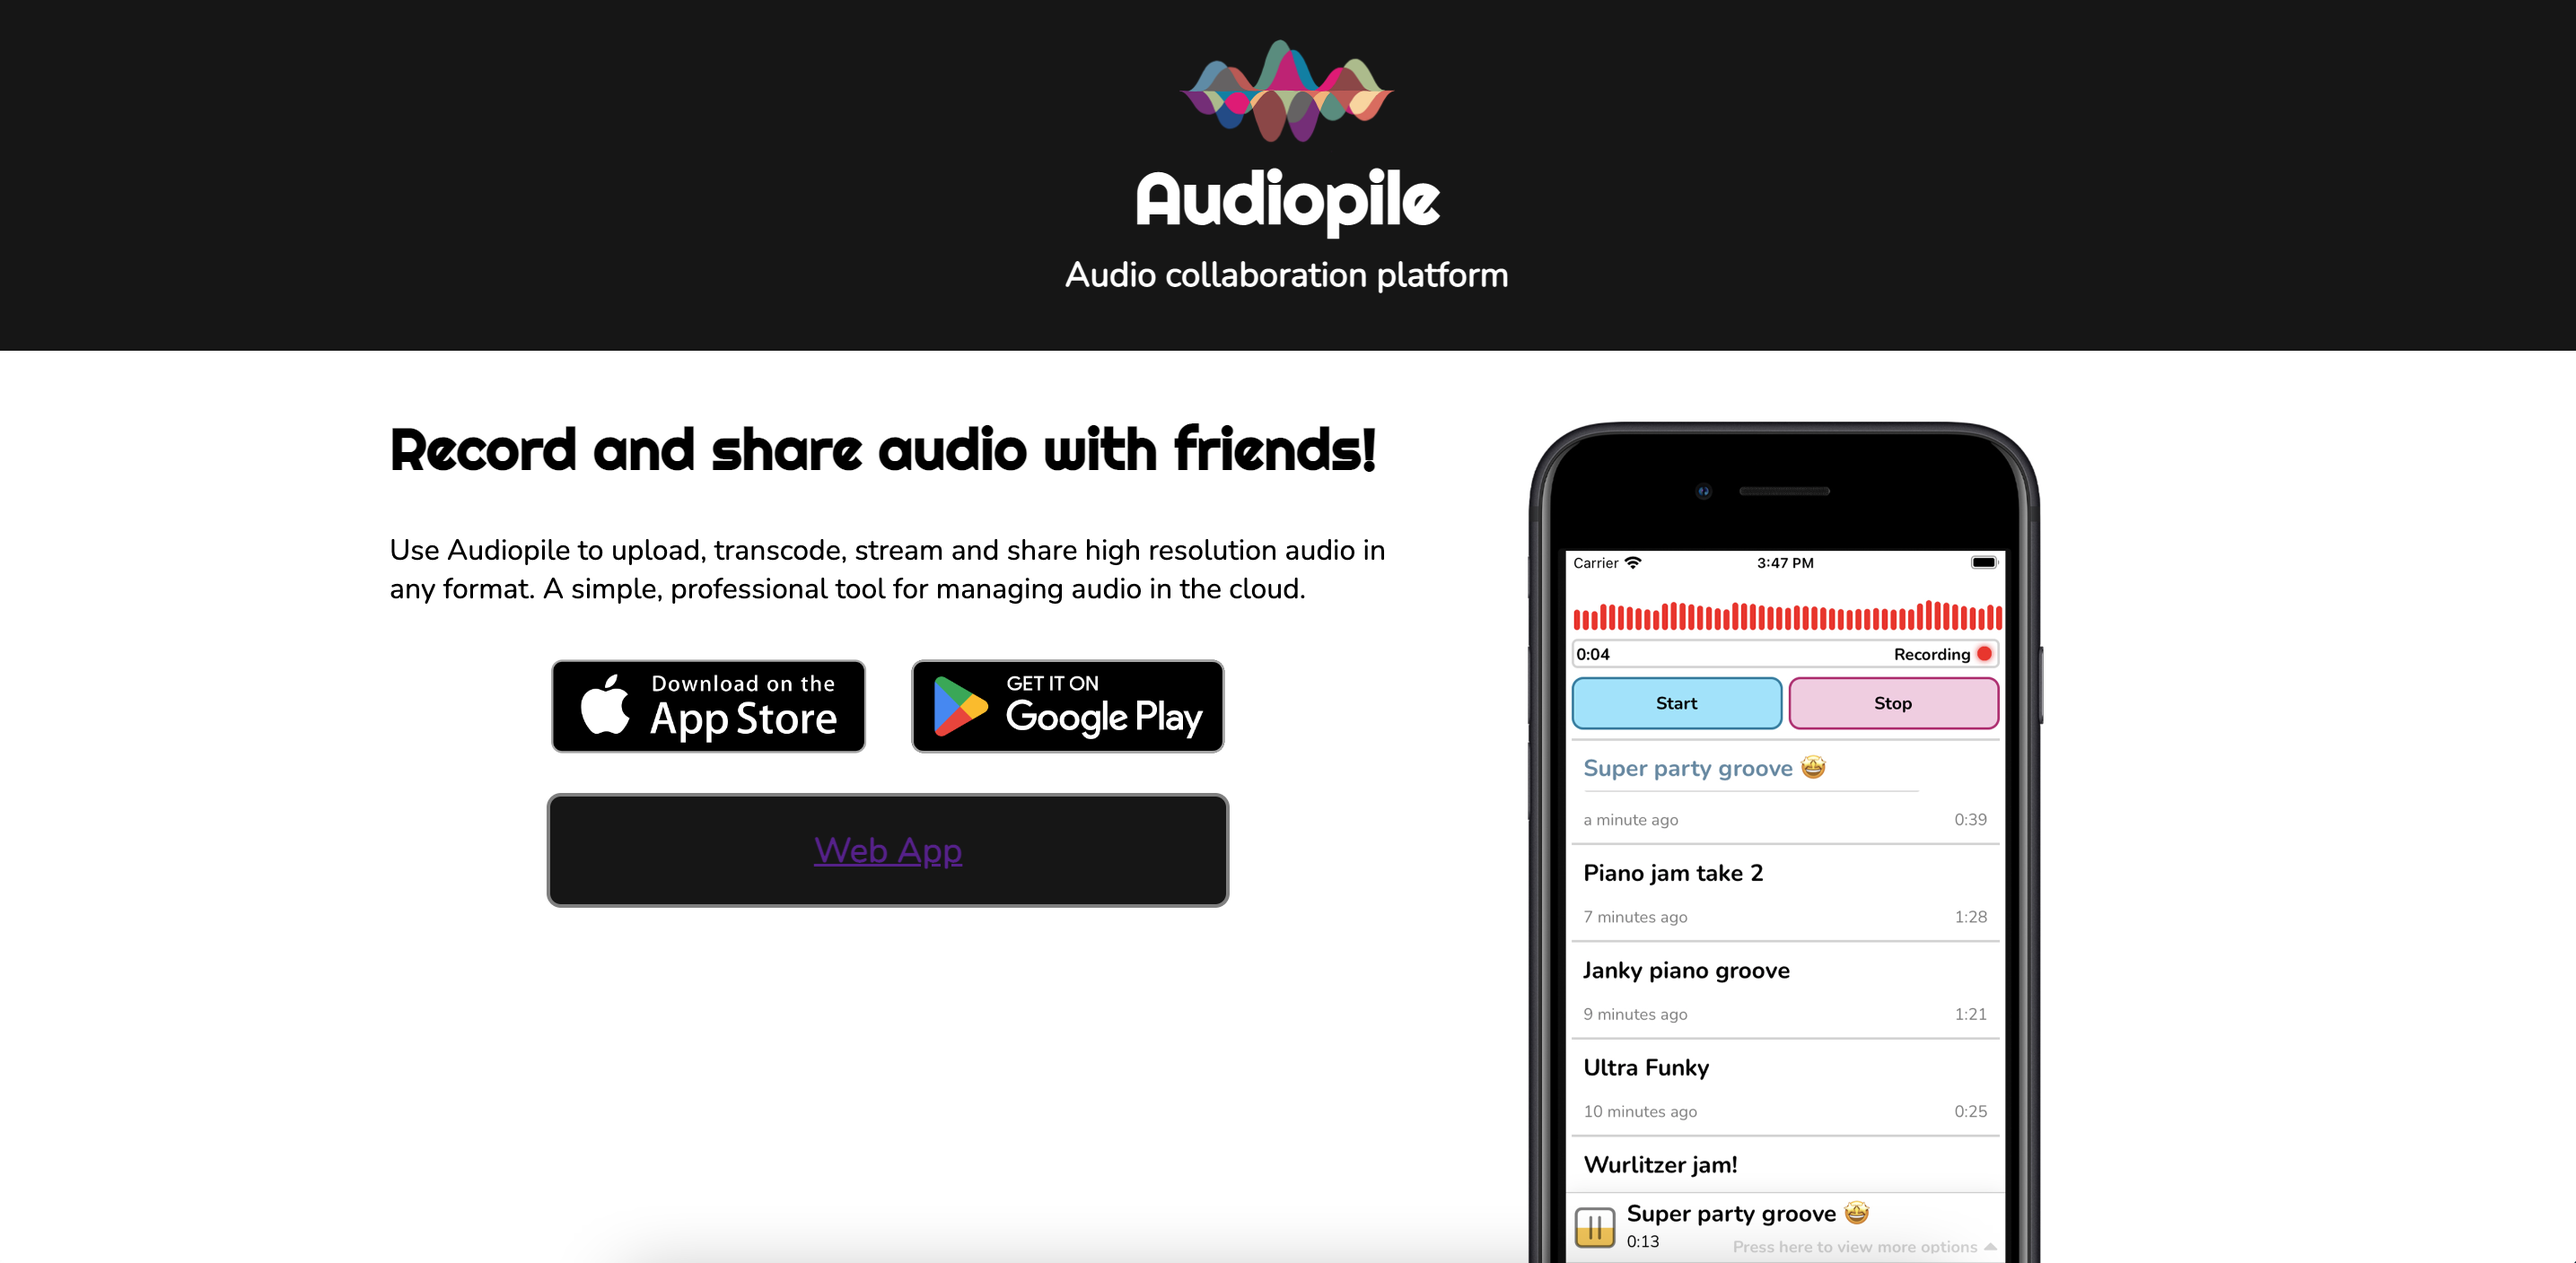
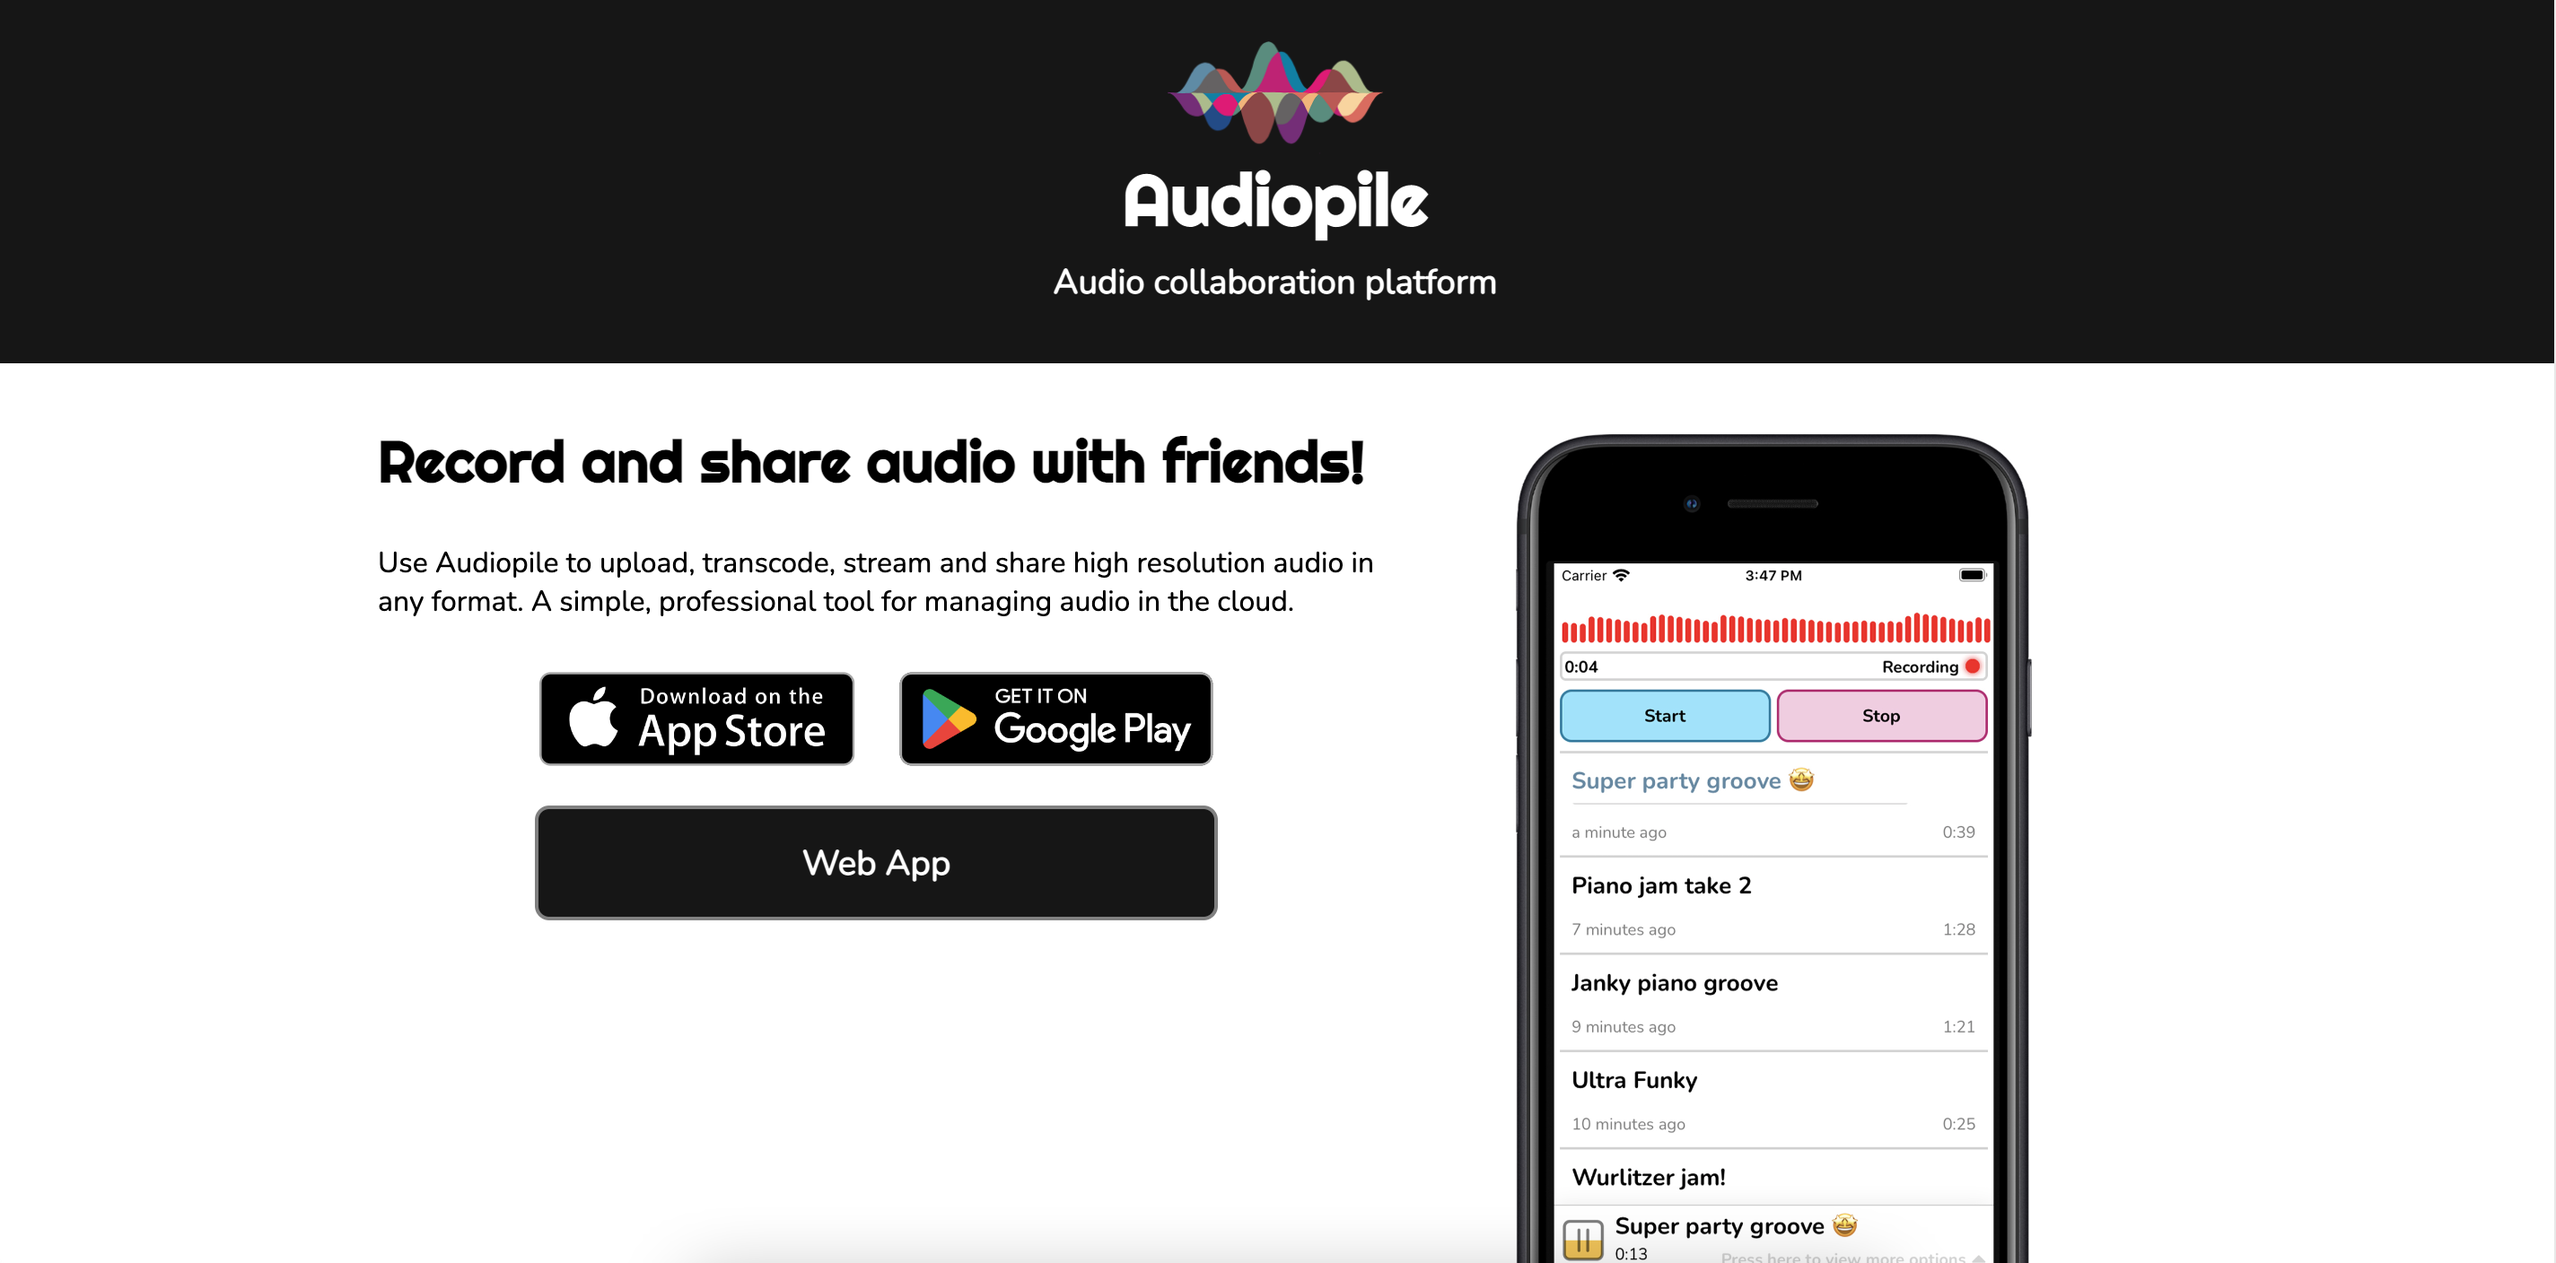
development page responsive

Changed region(s): [[0.0, 0.125, 1.0, 1.0], [0.125, 0.3438, 0.5312, 0.75], [0.4688, 0.0312, 0.5312, 0.0938]]

diff --git a/styles/secondary-pages.css b/styles/secondary-pages.css
@@ -123,6 +123,7 @@ footer nav a {
 }
 
 .project-left img {
+    width: 40rem;
     border-radius: .5rem;
     margin: 0rem 5rem 5rem 1rem;
 }
@@ -151,6 +152,28 @@ iframe {
     align-self: center;
 }
 
+@media screen and (max-width: 1040px) {
+    .project-right img, .project-left img {
+            width: 80vw;
+            border-radius: .5rem;
+            margin: auto 0;
+        }
+
+    .project-right {
+        display: flex;
+        flex-direction: column;
+        align-items: center;
+        text-align: start;
+    }
+
+    .project-left {
+        display: flex;
+        flex-direction: column-reverse;
+        align-items: center;
+        text-align: start;
+    }
+}
+      
 
 @media screen and (max-width: 520px) {
 
@@ -172,5 +195,29 @@ iframe {
         margin: 1vh 0vh;
     }
 
+    .project-right {
+        display: flex;
+        flex-direction: column;
+        align-items: center;
+        text-align: start;
+    }
 
+    .project-left {
+        display: flex;
+        flex-direction: column-reverse;
+        align-items: center;
+        text-align: start;
+    }
+
+    .project-right img, .project-left img {
+        width: 80vw;
+        border-radius: .5rem;
+        margin: auto 0;
+    }
+
+    p, a {
+        margin-bottom: .5rem;
+        font-size: 20px;
+        word-wrap: break-word;
+    }
 }

diff --git a/pages/development.html b/pages/development.html
@@ -46,7 +46,7 @@
             </a>
             <div class="text">
                 <h4>
-                    <a href="">thunderbaby</a>
+                    <a href="https://thunderbaby.club/">thunderbaby</a>
                 </h4>
                 <p>design and creation of the whole website.</p>
             </div>
